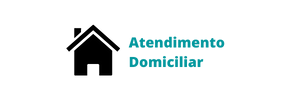
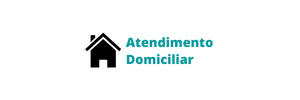
working on header and images

Changed region(s): [[0.21, 0.24, 0.75, 0.78], [0.42, 0.54, 0.69, 0.69]]

diff --git a/src/App.js b/src/App.js
@@ -2,6 +2,11 @@ import logo from './logo.svg';
 import info from './assets/info.png';
 import attendance from './assets/attendance.png';
 import insta from './assets/insta.png';
+
+import pic1 from './assets/pic1.jpeg';
+import pic2 from './assets/pic2.jpeg';
+import pic3 from './assets/pic3.jpeg';
+
 import './App.css';
 
 function App() {
@@ -15,6 +20,7 @@ function App() {
           <img src={insta} alt="info" width="300" height="100" />
         </section>
         <nav className="top-menu">
+          <div className="top-menu-div">
           <ul>
             <li>
               <a href="#top-menu">INICIO</a>
@@ -32,8 +38,21 @@ function App() {
               <a href="#top-menu">CONTATO</a>
             </li>
           </ul>
+          </div>
         </nav>
       </header>
+      <div className="front-pics">
+        <img src={pic1} alt="pic1" width="450" height="300" />
+        <img src={pic2} alt="pic2" width="450" height="300" />
+        <img src={pic3} alt="pic3" width="450" height="300" />
+      </div>
+      <div class="elementor-shape elementor-shape-bottom" data-negative="false">
+        <svg xmlns="http://www.w3.org/2000/svg" viewBox="0 0 1000 100" preserveAspectRatio="none">
+          <path class="elementor-shape-fill" opacity="0.33" d="M473,67.3c-203.9,88.3-263.1-34-320.3,0C66,119.1,0,59.7,0,59.7V0h1000v59.7 c0,0-62.1,26.1-94.9,29.3c-32.8,3.3-62.8-12.3-75.8-22.1C806,49.6,745.3,8.7,694.9,4.7S492.4,59,473,67.3z"/>
+          <path class="elementor-shape-fill" opacity="0.66" d="M734,67.3c-45.5,0-77.2-23.2-129.1-39.1c-28.6-8.7-150.3-10.1-254,39.1 s-91.7-34.4-149.2,0C115.7,118.3,0,39.8,0,39.8V0h1000v36.5c0,0-28.2-18.5-92.1-18.5C810.2,18.1,775.7,67.3,734,67.3z"/>
+          <path class="elementor-shape-fill" d="M766.1,28.9c-200-57.5-266,65.5-395.1,19.5C242,1.8,242,5.4,184.8,20.6C128,35.8,132.3,44.9,89.9,52.5C28.6,63.7,0,0,0,0 h1000c0,0-9.9,40.9-83.6,48.1S829.6,47,766.1,28.9z"/>
+        </svg>		
+      </div> 
     </div>
   );
 }

diff --git a/src/App.css b/src/App.css
@@ -8,10 +8,31 @@ nav {
   height: 46px;
 }
 
+ul {
+  display: flex;
+  align-items: center;
+  margin: auto;
+  width: 50%;
+  padding-top: 14px;
+  justify-content: space-between;
+}
+
 ul li {
   display: inline-block;
 }
 
 ul li a, ul li a:visited {
   text-decoration: none;
+  color: white;
+}
+
+ul li a:hover {
+  color: black;
+}
+
+.front-pics {
+  display: flex;
+  align-items: center;
+  justify-content: center;
+  text-align: center;
 }

diff --git a/public/index.html b/public/index.html
@@ -7,7 +7,7 @@
     <meta name="theme-color" content="#000000" />
     <meta
       name="description"
-      content="Web site created using create-react-app"
+      content="Bem Estar physiotherapy clinic website"
     />
     <link rel="apple-touch-icon" href="%PUBLIC_URL%/logo192.png" />
     <link rel="manifest" href="%PUBLIC_URL%/manifest.json" />

diff --git a/src/index.css b/src/index.css
@@ -1,8 +1,6 @@
 body {
   margin: 0;
-  font-family: -apple-system, BlinkMacSystemFont, 'Segoe UI', 'Roboto', 'Oxygen',
-    'Ubuntu', 'Cantarell', 'Fira Sans', 'Droid Sans', 'Helvetica Neue',
-    sans-serif;
+  font-family: 'Roboto', sans-serif;
   -webkit-font-smoothing: antialiased;
   -moz-osx-font-smoothing: grayscale;
 }
